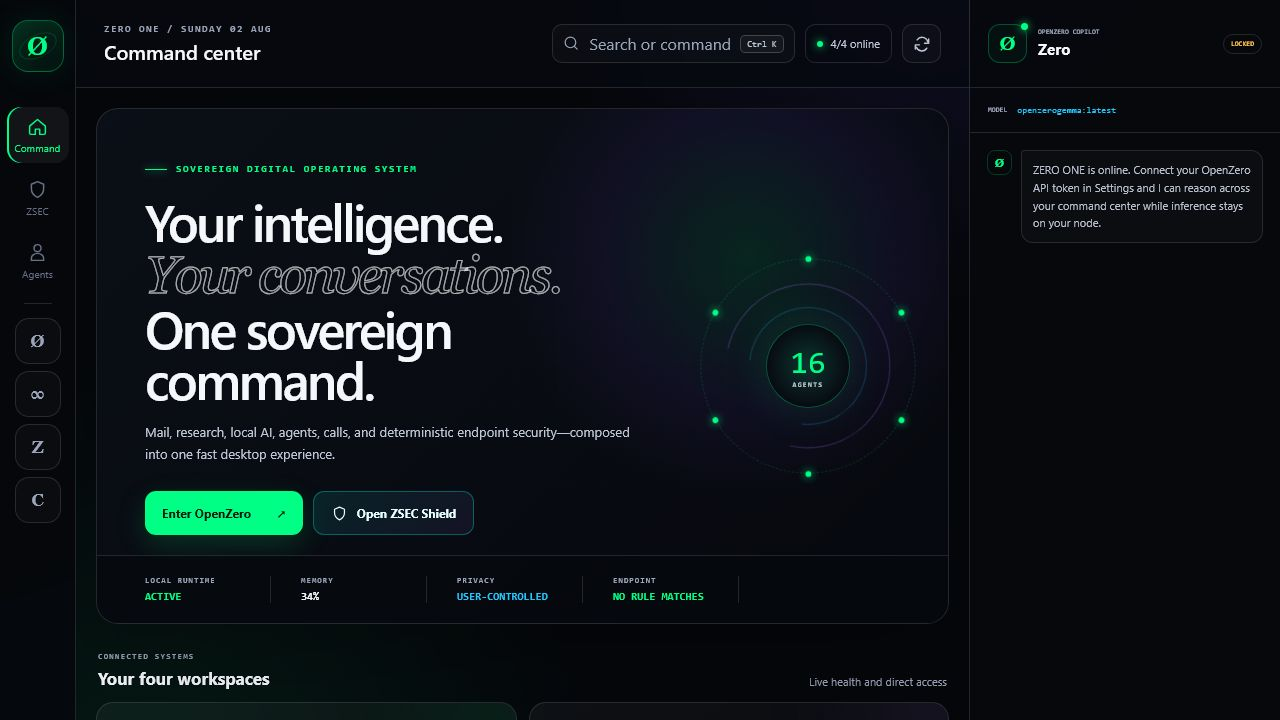
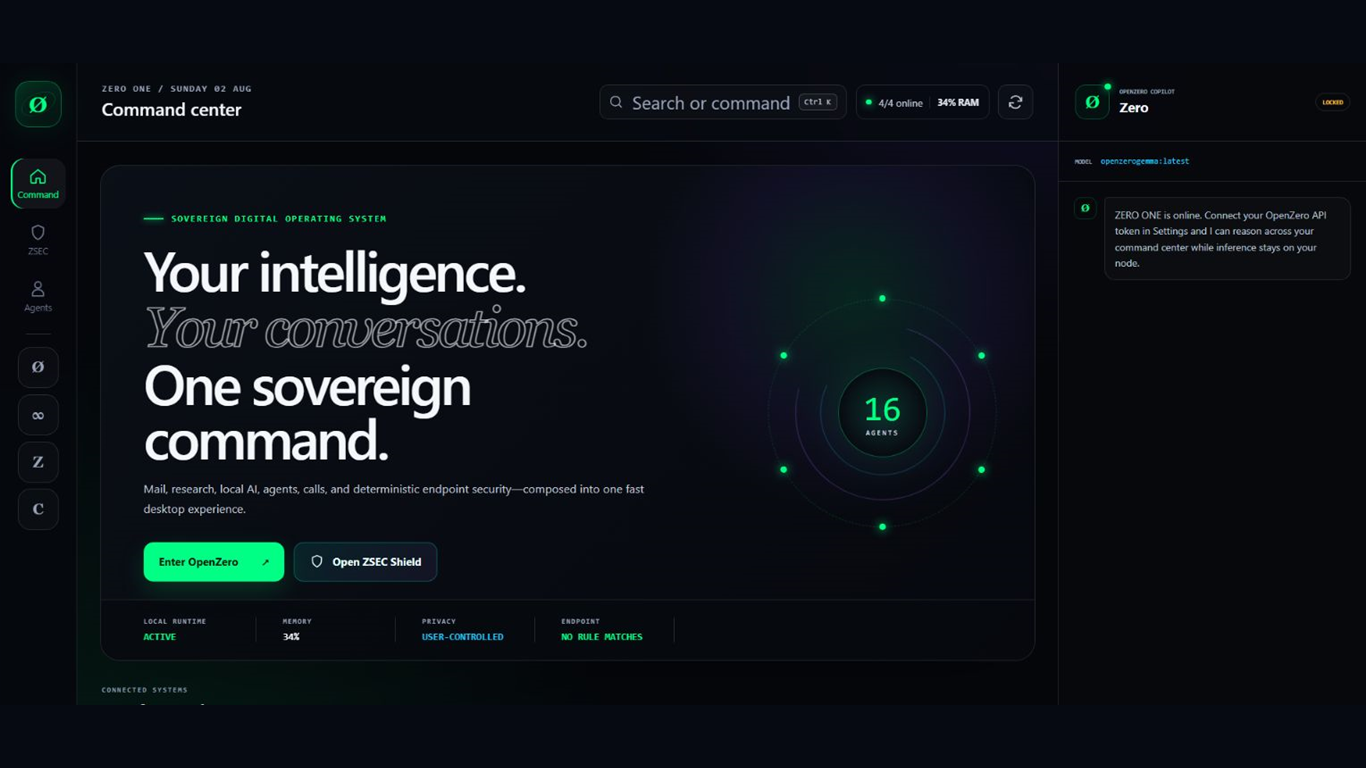
Refresh store-ready preview screenshots

diff --git a/src/main.tsx b/src/main.tsx
@@ -16,7 +16,7 @@ if (!window.zeroOne && import.meta.env.DEV) {
     hasOpenZeroToken: false,
   };
   window.zeroOne = {
-    getAppInfo: async () => ({ name: "ZERO ONE", version: "0.2.0-preview", platform: "win32", packaged: false }),
+    getAppInfo: async () => ({ name: "ZERO ONE", version: "0.3.0-preview", platform: "win32", packaged: false }),
     getSystemSnapshot: async () => ({ hostname: "ZERO-ONE-PREVIEW", platform: "Windows 11", cpu: "Preview CPU", cores: 16, memoryTotal: 32 * 1024 ** 3, memoryUsed: 11 * 1024 ** 3, memoryPercent: 34, uptimeSeconds: 420000 }),
     loadSettings: async () => previewSettings,
     saveSettings: async (settings) => Object.assign(previewSettings, settings),

diff --git a/store/STORE_METADATA_MATRIX.md b/store/STORE_METADATA_MATRIX.md
@@ -47,7 +47,7 @@ Status terms: **Present** means the repository contains a usable source item; **
 | Base icon | Separate Store logo required for MSI/EXE; package assets depend on route | Current HIG layout size is 1024×1024; direct Electron release should use reviewed `.icns`/native icon output | Prefer SVG; otherwise at least 256×256 PNG for Flathub | Only 1000×1000 ARGB PNG exists; **insufficient as final set** |
 | Main Store logo | 300×300 PNG, under 50 MB | Extracted from uploaded build | Installed desktop icon named to match app ID | **Missing** |
 | Poster/promotional art | 2:3 poster recommended; 720×1080 or 1440×2160; optional 16:9 promotional art where offered | Optional app preview; no poster requirement for Mac listing | Optional website/repository hero | **Missing** |
-| Screenshots | 1 required; 4 recommended; max 10 desktop PNGs, at least 1366×768 | 1–10 images, no alpha; Mac uses accepted 16:10 size | AppStream captures/captions; first is default | Two 1280×720 Windows preview captures exist; below Microsoft minimum and not portal-ready |
+| Screenshots | 1 required; 4 recommended; max 10 desktop PNGs, at least 1366×768 | 1–10 images, no alpha; Mac uses accepted 16:10 size | AppStream captures/captions; first is default | Two 1366×768 Windows preview captures meet Microsoft minimum dimensions; exact signed-candidate and macOS/Linux captures remain |
 | Captions | Up to 200 characters each | Product-page copy must match capture; captions are not a separate Mac field | One concise sentence per screenshot, no final full stop recommended by Flathub | **Draft:** see `SCREENSHOT_REQUIREMENTS.md` |
 
 ## Channel decision

diff --git a/store/ASSET_MANIFEST.md b/store/ASSET_MANIFEST.md
@@ -14,7 +14,7 @@ The source icon could not be visually inspected through the workspace image view
 |---|---|---|---|
 | MS-ICON-01 | `store/assets/microsoft/store-logo-300.png` | 300×300 PNG, under 50 MB | Missing |
 | MS-ART-01 | `store/assets/microsoft/poster-720x1080.png` | 720×1080 PNG; 1440×2160 alternative | Missing |
-| MS-SHOT-01..04 | See `SCREENSHOT_REQUIREMENTS.md` | 1920×1080 PNG proposed; minimum official size 1366×768 | Two reviewed 1280×720 previews exist; final portal captures missing |
+| MS-SHOT-01..04 | See `SCREENSHOT_REQUIREMENTS.md` | 1920×1080 PNG proposed; minimum official size 1366×768 | Two reviewed 1366×768 Windows preview captures meet the minimum dimensions; exact signed-candidate captures and two additional views remain |
 | APPLE-ICON-01 | Native Mac app icon source/output | Current guidance uses 1024×1024 layout; reviewed native icon output | Missing |
 | APPLE-SHOT-01..04 | See `SCREENSHOT_REQUIREMENTS.md` | 2880×1800 PNG/JPEG proposed, no alpha | Missing |
 | LINUX-ICON-01 | `org.talktoai.zeroone.svg` | Preferred SVG, correctly named and installed | Missing |

diff --git a/store/SCREENSHOT_REQUIREMENTS.md b/store/SCREENSHOT_REQUIREMENTS.md
@@ -1,6 +1,6 @@
 # Screenshot and visual-asset requirements
 
-Two reviewed 1280×720 Windows preview captures exist in store/screenshots/; they document UI quality but are below Microsoft's 1366×768 minimum and are not portal-ready. Capture final assets only from the exact signed candidate on its target operating system. Do not use Windows captures to represent macOS or Linux.
+Two reviewed 1366×768 Windows preview captures exist in store/screenshots/; they meet Microsoft's minimum dimensions and document UI quality. Capture final submission assets from the exact signed candidate on its target operating system, and add at least two more current views before submission. Do not use Windows captures to represent macOS or Linux.
 
 ## Capture set
 

diff --git a/store/RELEASE_EVIDENCE.md b/store/RELEASE_EVIDENCE.md
@@ -33,4 +33,4 @@ The installer, main app and bundled ZSEC executable are unsigned. The candidate 
 - `store/screenshots/01-command-center.png`
 - `store/screenshots/02-zsec-shield.png`
 
-These 1280×720 preview captures document the reviewed UI but do not meet Microsoft’s minimum listing dimensions and are not macOS/Linux evidence.
+These 1366×768 preview captures meet Microsoft’s minimum dimensions and document the reviewed UI. They are development-preview evidence, not exact signed-candidate, macOS, or Linux evidence.
